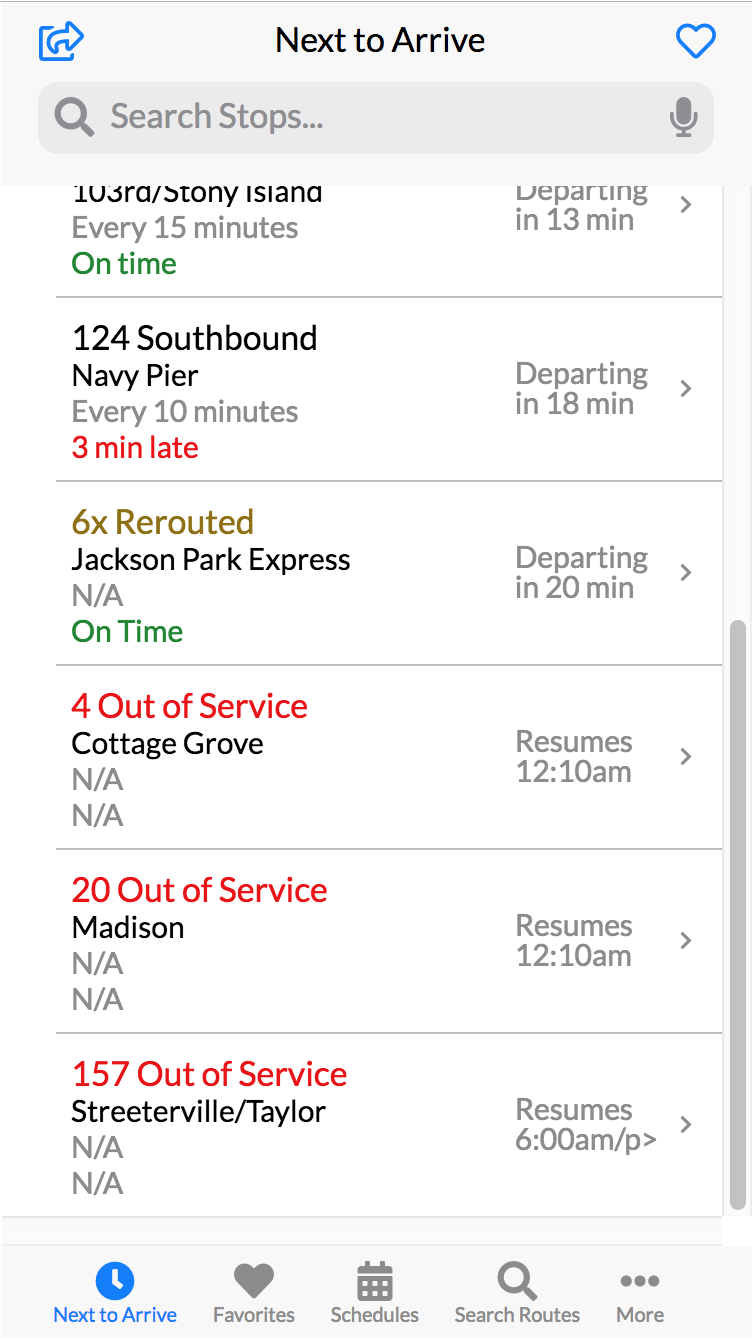
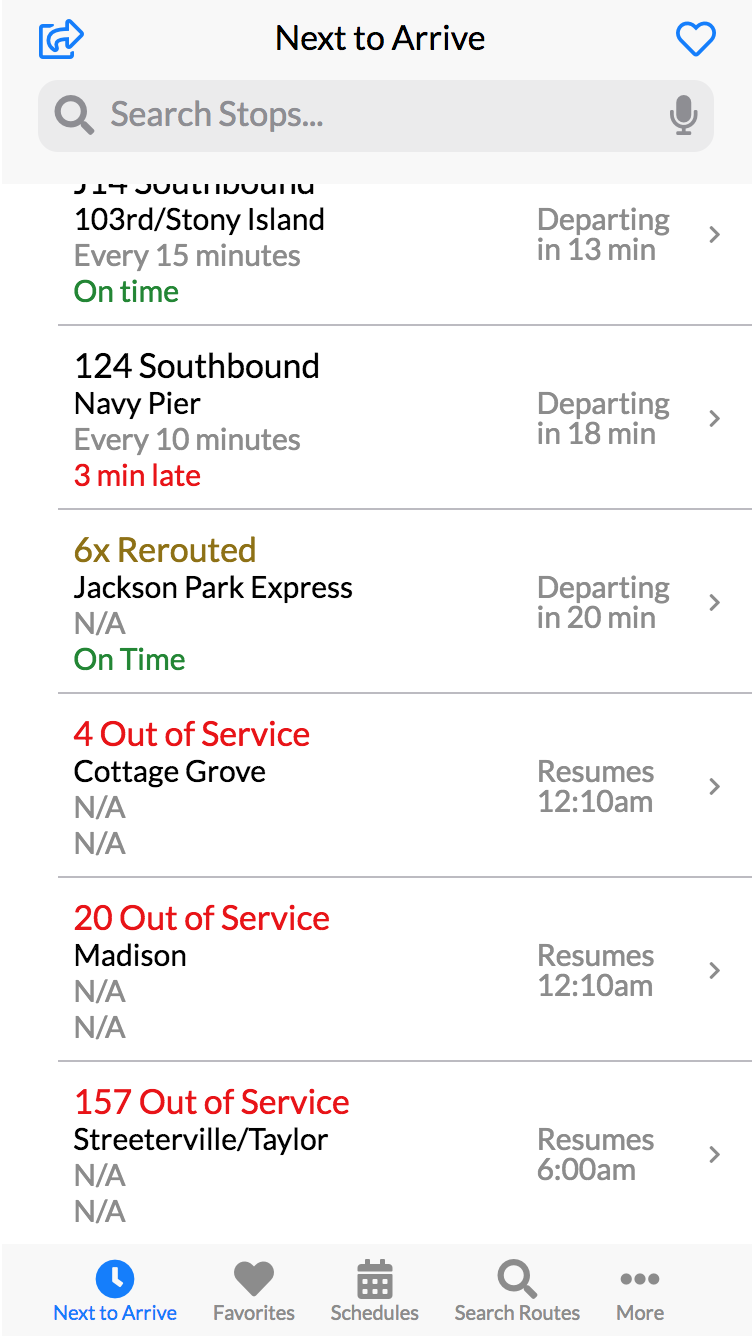
Fixed typo

diff --git a/index.html b/index.html
@@ -170,7 +170,7 @@
               </p>
             </li>
             <li>
-              <p class="departing">Resumes<br/>6:00am/p>
+              <p class="departing">Resumes<br/>6:00am</p>
             </li>
             <li>
               <i class="fas fa-chevron-right"></i>
